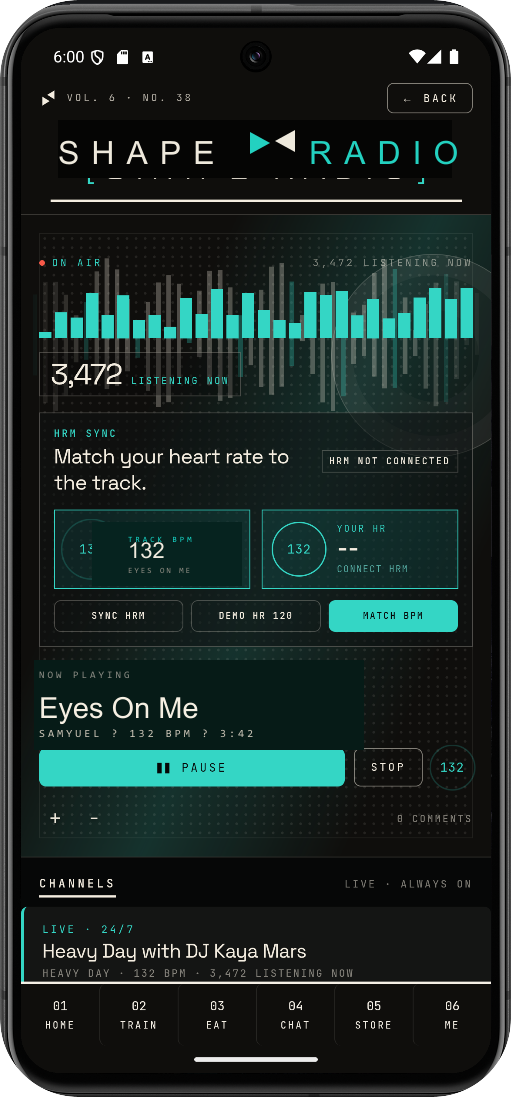
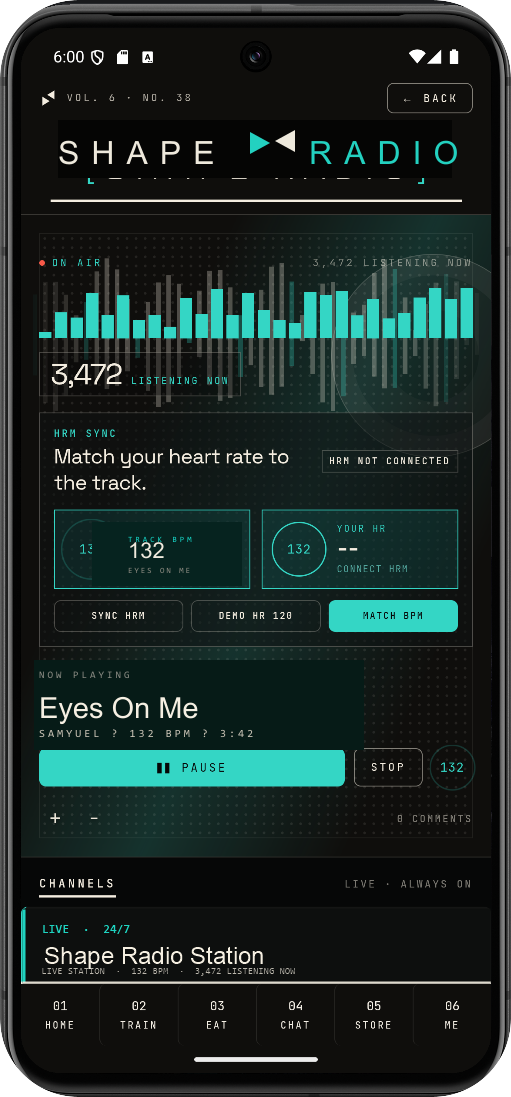
Update Shape Radio station copy

Changed region(s): [[0.0294, 0.8368, 0.7045, 0.8988]]

diff --git a/public/mobile/iosAppRadio.jsx b/public/mobile/iosAppRadio.jsx
@@ -8,17 +8,17 @@ const { useState: useStateR } = React;
 // The one live stream.
 const LIVE_STATION = {
   name: 'Shape Radio',
-  show: 'Heavy Day with DJ Kaya Mars',
+  show: 'Shape Radio Station',
   bpm: 132,
   listeners: 3472,
-  nextUp: 'Tempo Run at 6 PM · Nilo Ceza',
+  nextUp: 'Live mix all day',
   color: '#1ec0a8',
   // mock track ticker
   tracks: [
     { t: '— now —', a: 'Roots of the Machine', b: 'MERIT · 132 BPM' },
     { t: '3m ago', a: 'Floor Program II', b: 'Tariq Osei · 130 BPM' },
     { t: '7m ago', a: 'Ironwood', b: 'Sable · 134 BPM' },
-    { t: '11m ago', a: 'Peak Set', b: 'DJ Kaya Mars · 132 BPM' },
+    { t: '11m ago', a: 'Peak Set', b: 'Shape Radio · 132 BPM' },
     { t: '15m ago', a: 'Cue the Lift', b: 'Linnea Aho · 128 BPM' },
   ],
 };
@@ -125,13 +125,7 @@ function RadioScreen({ onBack }) {
           fontWeight: 400, margin: 0, color: INK,
         }}>
           {isLive ? (
-            <>{LIVE_STATION.show.split(' with ')[0]}<br/>
-              <em style={{ fontStyle: 'italic', color: accent, fontWeight: 500 }}>
-                with {LIVE_STATION.show.split(' with ')[1].split(' ').slice(0, 2).join(' ')}
-              </em><em style={{ fontStyle: 'italic', color: accent, fontWeight: 500 }}>
-                {' '}{LIVE_STATION.show.split(' with ')[1].split(' ').slice(2).join(' ')}
-              </em>
-            </>
+            <>{LIVE_STATION.show}</>
           ) : (
             <>{current.name}<em style={{ fontStyle: 'italic', color: accent, fontWeight: 500 }}>.</em></>
           )}

diff --git a/public/mobile/radio.jsx b/public/mobile/radio.jsx
@@ -1,6 +1,6 @@
 // Shape Radio — music built for training
 const STATIONS = [
-  { name: "Heavy Day", bpm: 132, listeners: 1284, tag: "Lifts · power · grit", color: TEAL, live: true },
+  { name: "Shape Radio Station", bpm: 132, listeners: 1284, tag: "Lifts · power · grit", color: TEAL, live: true },
   { name: "Tempo Run", bpm: 172, listeners: 842, tag: "Steady state · zone 3", color: "#e89b4a" },
   { name: "Intervals", bpm: 168, listeners: 624, tag: "HIIT · 30/30 · 40/20", color: "#c978d8" },
   { name: "Long Ride", bpm: 120, listeners: 418, tag: "Endurance · 90–180 min", color: "#7aaae8" },
@@ -9,7 +9,7 @@ const STATIONS = [
 ];
 
 const SHOWS = [
-  { name: "Lift Series vol. 04", dj: "DJ Kaya Mars", len: "1h 12m", style: "Heavy bass · 130–140 bpm", featured: true },
+  { name: "Lift Series vol. 04", dj: "Shape Radio", len: "1h 12m", style: "Heavy bass · 130–140 bpm", featured: true },
   { name: "Long Run Radio", dj: "Nilo Ceza", len: "2h 00m", style: "Afro-house · 168–172 bpm" },
   { name: "Cut the Weight", dj: "Merit & Sable", len: "48m", style: "Grime-adjacent · 160 bpm" },
   { name: "Mobility Hour", dj: "Linnea Aho", len: "60m", style: "Ambient · 80–90 bpm" },
@@ -34,7 +34,7 @@ function RadioHero() {
           </h1>
           <p style={{ fontFamily: sans, fontSize: 18, color: "rgba(242,237,228,0.7)", margin: "28px 0 0", maxWidth: 520, lineHeight: 1.5 }}>Ad-free workout mixes, curated stations by BPM, live DJ sets from residents who lift. Plus: your coach can attach a Spotify or Apple Music playlist to any workout or meal — it plays on the card, in your kitchen, or on the treadmill. Send good ones to friends. Included with every Shape membership.</p>
           <div style={{ display: "flex", gap: 10, marginTop: 36 }}>
-            <button style={{ background: TEAL, color: PAPER, border: 0, padding: "16px 28px", borderRadius: 6, fontWeight: 500, fontSize: 14.5, fontFamily: sans, cursor: "pointer" }}>▶ Play Heavy Day</button>
+            <button style={{ background: TEAL, color: PAPER, border: 0, padding: "16px 28px", borderRadius: 6, fontWeight: 500, fontSize: 14.5, fontFamily: sans, cursor: "pointer" }}>▶ Play Shape Radio Station</button>
             <button style={{ background: "transparent", color: INK, border: "1px solid rgba(242,237,228,0.25)", padding: "16px 28px", borderRadius: 6, fontWeight: 500, fontSize: 14.5, fontFamily: sans, cursor: "pointer" }}>Browse stations</button>
           </div>
         </div>
@@ -42,8 +42,8 @@ function RadioHero() {
         {/* Now playing card */}
         <div style={{ padding: 32, background: "rgba(26,22,18,0.55)", backdropFilter: "blur(14px)", WebkitBackdropFilter: "blur(14px)", border: "1px solid rgba(242,237,228,0.12)", borderRadius: 4 }}>
           <div style={{ fontFamily: sans, fontSize: 11, letterSpacing: "0.12em", color: TEAL_BRIGHT, textTransform: "uppercase" }}>◉ Live · 1,284 listening</div>
-          <div style={{ fontFamily: serif, fontSize: 44, letterSpacing: "-0.02em", marginTop: 14, lineHeight: 1 }}>Heavy Day · 132 BPM</div>
-          <div style={{ fontFamily: sans, fontSize: 13.5, color: "rgba(242,237,228,0.7)", marginTop: 8 }}>DJ Kaya Mars — Lift Series vol. 04</div>
+          <div style={{ fontFamily: serif, fontSize: 44, letterSpacing: "-0.02em", marginTop: 14, lineHeight: 1 }}>Shape Radio Station · 132 BPM</div>
+          <div style={{ fontFamily: sans, fontSize: 13.5, color: "rgba(242,237,228,0.7)", marginTop: 8 }}>Shape Radio — Lift Series vol. 04</div>
           <div style={{ display: "flex", alignItems: "center", gap: 3, height: 56, marginTop: 28 }}>
             {bars.map((h, i) => (
               <div key={i} style={{ flex: 1, height: `${20 + h*80}%`, background: i < 32 ? TEAL_BRIGHT : "rgba(242,237,228,0.2)", borderRadius: 1, transition: "height .2s" }} />
@@ -136,7 +136,7 @@ function RadioPitch() {
         <div style={{ display: "flex", flexDirection: "column", gap: 28 }}>
           {[
             ["Mixed for movement", "Every track is vetted for tempo consistency. No slow-down bridges that break a set. No key jumps during intervals."],
-            ["Synced to your program", "Radio reads your workout — pulls a Heavy Day station when you're squatting, Tempo when you're on the treadmill. You just press play."],
+            ["Synced to your program", "Radio reads your workout and keeps the Shape Radio Station ready when you're squatting, running, or on the treadmill. You just press play."],
             ["Offline-ready", "Download any station or show for outdoor runs, lifts in garage gyms, flights, or anywhere reception dies. Up to 20 hours at a time."],
             ["Ad-free, always", "Your membership covers it. No skips between tracks, no host shouting about mattresses, no pre-rolls. Just the music you came for."],
           ].map(([t, b], i) => (

diff --git a/public/newdesign/radio.jsx b/public/newdesign/radio.jsx
@@ -1,6 +1,6 @@
 // Shape Radio — music built for training
 const STATIONS = [
-  { name: "Heavy Day", bpm: 132, listeners: 1284, tag: "Lifts · power · grit", color: TEAL, live: true },
+  { name: "Shape Radio Station", bpm: 132, listeners: 1284, tag: "Lifts · power · grit", color: TEAL, live: true },
   { name: "Tempo Run", bpm: 172, listeners: 842, tag: "Steady state · zone 3", color: "#e89b4a" },
   { name: "Intervals", bpm: 168, listeners: 624, tag: "HIIT · 30/30 · 40/20", color: "#c978d8" },
   { name: "Long Ride", bpm: 120, listeners: 418, tag: "Endurance · 90–180 min", color: "#7aaae8" },
@@ -9,7 +9,7 @@ const STATIONS = [
 ];
 
 const SHOWS = [
-  { name: "Lift Series vol. 04", dj: "DJ Kaya Mars", len: "1h 12m", style: "Heavy bass · 130–140 bpm", featured: true },
+  { name: "Lift Series vol. 04", dj: "Shape Radio", len: "1h 12m", style: "Heavy bass · 130–140 bpm", featured: true },
   { name: "Long Run Radio", dj: "Nilo Ceza", len: "2h 00m", style: "Afro-house · 168–172 bpm" },
   { name: "Cut the Weight", dj: "Merit & Sable", len: "48m", style: "Grime-adjacent · 160 bpm" },
   { name: "Mobility Hour", dj: "Linnea Aho", len: "60m", style: "Ambient · 80–90 bpm" },
@@ -29,7 +29,7 @@ function RadioHero() {
           </h1>
           <p style={{ fontFamily: sans, fontSize: 18, color: "rgba(242,237,228,0.7)", margin: "28px 0 0", maxWidth: 520, lineHeight: 1.5 }}>Ad-free workout mixes, curated stations by BPM, live DJ sets from residents who lift. Plus: your coach can attach a Spotify or Apple Music playlist to any workout or meal — it plays on the card, in your kitchen, or on the treadmill. Send good ones to friends. Included with every Shape membership.</p>
           <div style={{ display: "flex", gap: 10, marginTop: 36 }}>
-            <a href="/radio.html" style={{ background: TEAL, color: PAPER, border: 0, padding: "16px 28px", borderRadius: 6, fontWeight: 500, fontSize: 14.5, fontFamily: sans, cursor: "pointer", textDecoration: "none", display: "inline-flex", alignItems: "center" }}>▶ Play Heavy Day</a>
+            <a href="/radio.html" style={{ background: TEAL, color: PAPER, border: 0, padding: "16px 28px", borderRadius: 6, fontWeight: 500, fontSize: 14.5, fontFamily: sans, cursor: "pointer", textDecoration: "none", display: "inline-flex", alignItems: "center" }}>▶ Play Shape Radio Station</a>
             <a href="#stations" style={{ background: "transparent", color: INK, border: "1px solid rgba(242,237,228,0.25)", padding: "16px 28px", borderRadius: 6, fontWeight: 500, fontSize: 14.5, fontFamily: sans, cursor: "pointer", textDecoration: "none", display: "inline-flex", alignItems: "center" }}>Browse stations</a>
           </div>
         </div>
@@ -132,7 +132,7 @@ function RadioPitch() {
         <div style={{ display: "flex", flexDirection: "column", gap: 28 }}>
           {[
             ["Mixed for movement", "Every track is vetted for tempo consistency. No slow-down bridges that break a set. No key jumps during intervals."],
-            ["Synced to your program", "Radio reads your workout — pulls a Heavy Day station when you're squatting, Tempo when you're on the treadmill. You just press play."],
+            ["Synced to your program", "Radio reads your workout and keeps the Shape Radio Station ready when you're squatting, running, or on the treadmill. You just press play."],
             ["Offline-ready", "Download any station or show for outdoor runs, lifts in garage gyms, flights, or anywhere reception dies. Up to 20 hours at a time."],
             ["Ad-free, always", "Your membership covers it. No skips between tracks, no host shouting about mattresses, no pre-rolls. Just the music you came for."],
           ].map(([t, b], i) => (

diff --git a/public/mobile/iosAppReactive.jsx b/public/mobile/iosAppReactive.jsx
@@ -101,7 +101,7 @@ function RadioBgBloom({ color = '#1ec0a8', enabled = true }) {
   );
 }
 
-function RadioDynamicIsland({ enabled = true, color = '#1ec0a8', label = 'Heavy Day · 132' }) {
+function RadioDynamicIsland({ enabled = true, color = '#1ec0a8', label = 'Shape Radio · 132' }) {
   const { bass, mid, treble, t } = useBeat(enabled);
   if (!enabled) return null;
   const bars = Array.from({ length: 7 }).map((_, i) => {
@@ -222,7 +222,7 @@ function RadioHologramDJ({ enabled = true, color = '#1ec0a8' }) {
   );
 }
 
-function RadioEffects({ mode = 'subtle', label = 'Heavy Day · 132' }) {
+function RadioEffects({ mode = 'subtle', label = 'Shape Radio · 132' }) {
   const on = mode !== 'off';
   const { t } = useBeat(on);
   const color = cycleColor(t, 18);

diff --git a/public/mobile/iosAppClient.jsx b/public/mobile/iosAppClient.jsx
@@ -69,7 +69,7 @@ function ClientApp({ dark, onLogout, radioOn, setRadioOn }) {
 
   return (
     <div style={{ position: 'absolute', inset: 0 }}>
-      {showFx && <RadioEffects mode={fxMode} label="HEAVY DAY · 132 BPM" />}
+      {showFx && <RadioEffects mode={fxMode} label="SHAPE RADIO · 132 BPM" />}
       {screens[tab]}
       <TabBar
         active={tab}

diff --git a/public/newdesign/GetApp.html b/public/newdesign/GetApp.html
@@ -568,7 +568,7 @@
             </div>
             <div class="home-demo-radio">
               <span class="disc">132</span>
-              <span><h4>Peak Set</h4><p>DJ Kaya Mars - 132 BPM</p></span>
+              <span><h4>Peak Set</h4><p>Shape Radio Station - 132 BPM</p></span>
               <span class="home-demo-tag">II</span>
             </div>
             <div class="home-demo-lead">